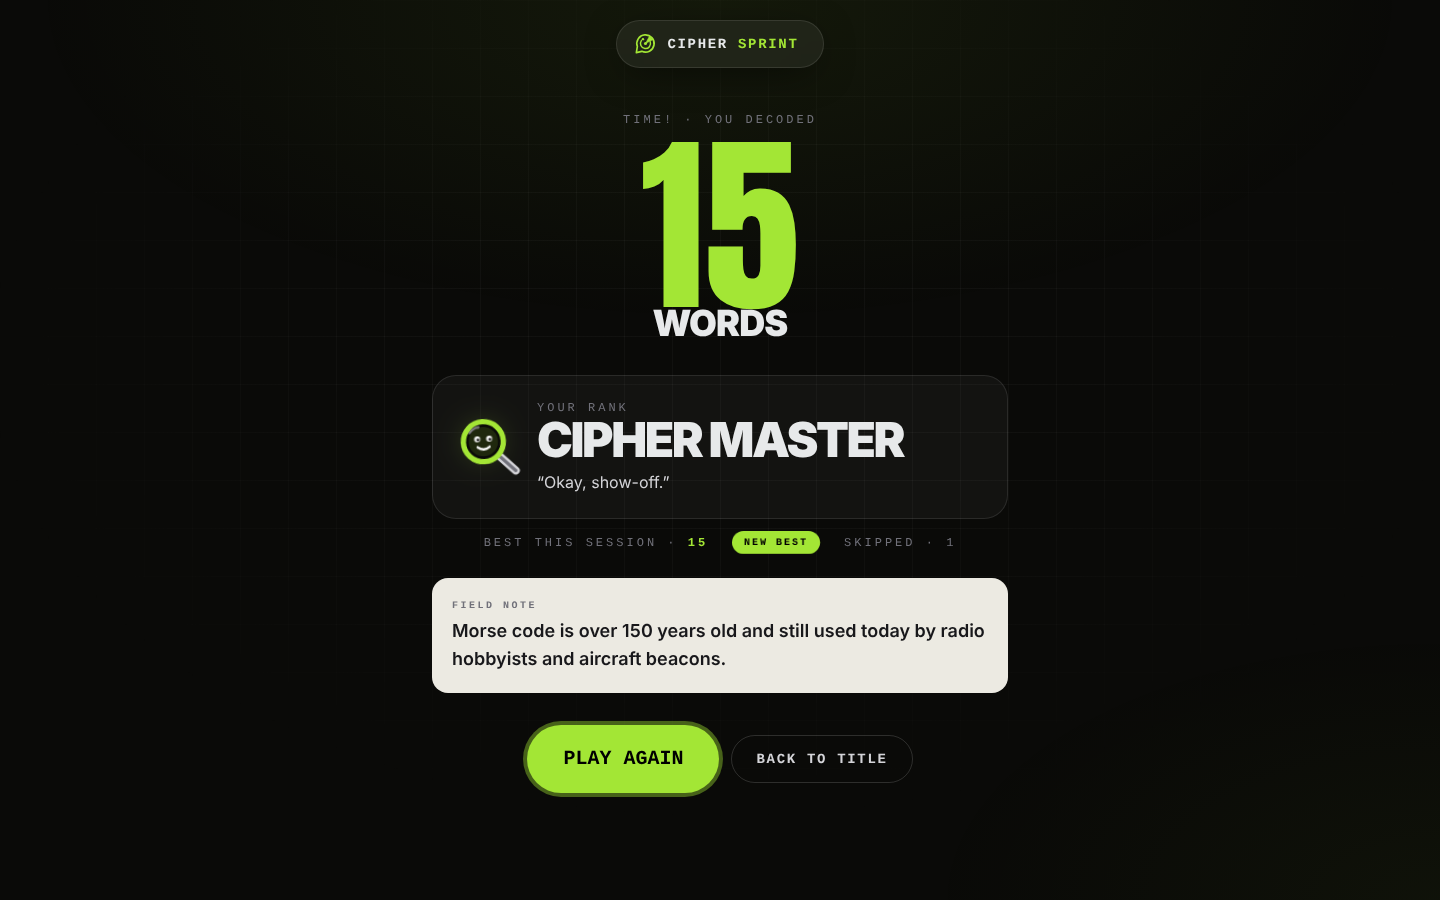
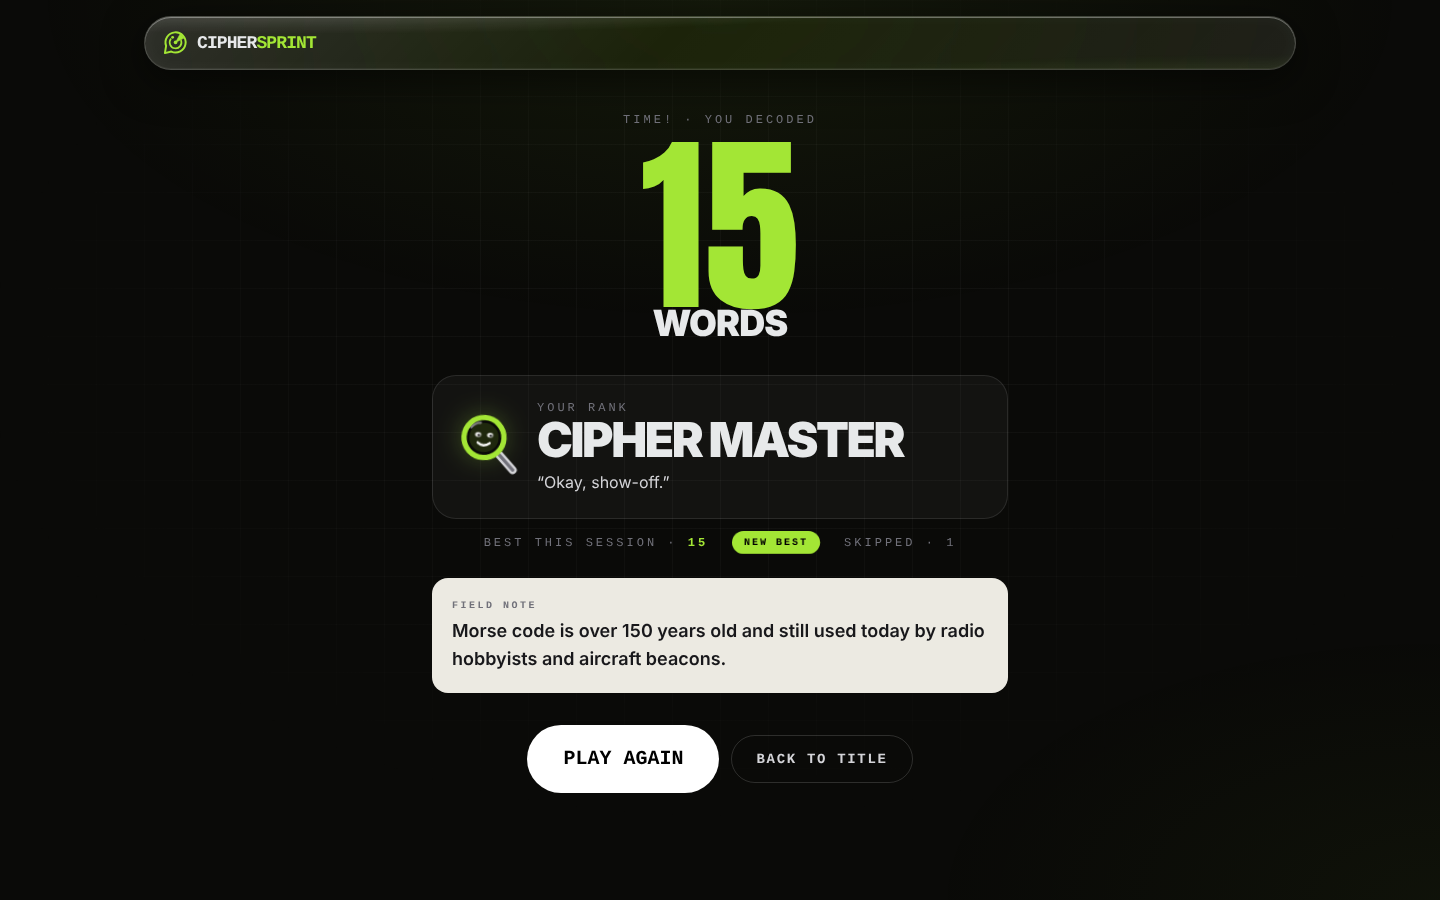
Title screen: match SOCIALTRACE (glass nav, centred cover sheet, crossing tapes, mono tagline)
Claude-Session: https://claude.ai/code/session_01DGm3B5AaMHuSEuj3PcSMVj

diff --git a/components/Game.tsx b/components/Game.tsx
@@ -16,7 +16,7 @@ import PuzzleKey from "./Keys";
 import Magnetic from "./Magnetic";
 import Marquee from "./Marquee";
 import QR from "./QR";
-import SiteNav from "./SiteNav";
+import SiteNav, { pill } from "./SiteNav";
 import { Tile, type TileState } from "./SplitFlap";
 import { TimerBar, TimerNumber } from "./Timer";
 import { Token } from "./Tokens";
@@ -39,7 +39,7 @@ declare global {
 }
 
 const btnPrimary =
-  "inline-flex min-h-[56px] items-center justify-center gap-3 rounded-full bg-lime-400 px-9 py-5 font-mono text-lg font-bold uppercase text-black transition-colors duration-200 hover:bg-white focus-visible:outline-none focus-visible:ring-4 focus-visible:ring-lime-400/40";
+  "group inline-flex min-h-[56px] items-center justify-center gap-3 rounded-full bg-lime-400 px-9 py-5 font-mono text-lg font-bold uppercase text-black outline-none transition-colors duration-200 hover:bg-white focus-visible:bg-white";
 const btnGhost =
   "inline-flex min-h-[48px] items-center justify-center rounded-full border border-white/15 px-6 py-3 font-mono text-sm font-bold uppercase tracking-[0.12em] text-zinc-300 transition-colors hover:border-white hover:text-white focus-visible:outline-none focus-visible:ring-2 focus-visible:ring-lime-400";
 const micro = "font-mono text-[10px] sm:text-xs uppercase tracking-[0.25em] text-zinc-500";
@@ -383,46 +383,48 @@ export default function Game({ initial }: { initial: "title" | "play" }) {
 // Title
 // =====================================================================
 function TitleScreen({ best, onPlay }: { best: number; onPlay: () => void }) {
+  // Same cover-sheet layout as SOCIALTRACE's hero: centred title, crop marks, file microtype, scan line.
+  const mark = "absolute h-6 w-6 border-zinc-600";
   return (
-    <main className="bg-grain relative flex min-h-[100svh] flex-col overflow-hidden">
-      <div aria-hidden className="grid-lines pointer-events-none absolute inset-0" />
-      <SiteNav />
-      <section className="relative mx-auto grid w-full max-w-[1400px] flex-1 items-center gap-8 px-4 pb-8 pt-24 sm:px-8 sm:pt-28 lg:grid-cols-[1.25fr_1fr] lg:gap-12 lg:px-12">
-        <div className="rise min-w-0">
-          <p className={micro}>Cipher club · stall game · 60 seconds</p>
-          <h1 className="mt-4 select-none font-black uppercase leading-[0.82] tracking-tighter">
-            <span className="block text-[17vw] sm:text-[13vw] lg:text-[10.5vw] 2xl:text-[150px]">Cipher</span>
-            <span className="block text-[17vw] text-lime-400 sm:text-[13vw] lg:text-[10.5vw] 2xl:text-[150px]">Sprint</span>
+    <main className="relative min-h-[100svh] overflow-hidden bg-[#0a0a08] text-white selection:bg-lime-400 selection:text-black">
+      <SiteNav right={best > 0 ? <span className={pill}>Best <b className="text-lime-400">{best}</b></span> : null} />
+      <section className="relative flex min-h-[calc(100svh-5rem)] w-full flex-col items-center justify-center px-4 pb-6 pt-28 sm:min-h-[calc(100svh-7rem)] sm:pt-32">
+        <div aria-hidden className="absolute inset-0 bg-[linear-gradient(to_right,#ffffff0d_1px,transparent_1px),linear-gradient(to_bottom,#ffffff0d_1px,transparent_1px)] bg-[size:48px_48px] [mask-image:radial-gradient(ellipse_at_center,black_30%,transparent_75%)]" />
+        <div aria-hidden className="scan pointer-events-none absolute inset-x-0 top-0 h-px bg-lime-400/70 shadow-[0_0_24px_4px_rgba(163,230,53,.35)]" />
+        <span aria-hidden className={`${mark} left-4 top-20 border-l border-t sm:left-8 sm:top-24`} />
+        <span aria-hidden className={`${mark} right-4 top-20 border-r border-t sm:right-8 sm:top-24`} />
+        <span aria-hidden className={`${mark} bottom-2 left-4 border-b border-l sm:left-8`} />
+        <span aria-hidden className={`${mark} bottom-2 right-4 border-b border-r sm:right-8`} />
+        <p className="absolute left-6 top-[6.5rem] font-mono text-[10px] uppercase tracking-[0.25em] text-zinc-500 sm:left-12 sm:top-[7.5rem] sm:text-xs">Cipher club · stall game</p>
+        <p className="absolute right-6 top-[6.5rem] flex items-center gap-2 font-mono text-[10px] uppercase tracking-[0.25em] text-zinc-500 sm:right-12 sm:top-[7.5rem] sm:text-xs">
+          <span className="h-1.5 w-1.5 animate-pulse rounded-full bg-lime-400" />60 sec</p>
+
+        <div className="rise relative z-10 text-center">
+          <h1 className="select-none text-[17vw] font-black uppercase leading-[0.82] tracking-tighter sm:text-[13vw] lg:text-[10vw] 2xl:text-[150px]">
+            Cipher<br /><span className="bg-gradient-to-b from-white to-zinc-600 bg-clip-text text-transparent">Sprint</span>
           </h1>
-          <p className="mt-6 max-w-md text-lg leading-snug text-zinc-300 sm:text-xl">
-            Decode as many secret words as you can in <span className="font-bold text-white">60 seconds</span>.
-            Every puzzle comes with its key.
+          <p className="mx-auto mt-7 max-w-2xl font-mono text-sm uppercase tracking-widest text-zinc-400 sm:text-base">
+            Read the code. Use the key.{" "}
+            <span className="relative inline-block"><span className="text-white">Crack</span>
+              <span aria-hidden className="draw-line absolute inset-x-0 -bottom-1 h-[3px] bg-lime-400" /></span> the word.
           </p>
-          <div className="mt-8 flex flex-wrap items-center gap-x-6 gap-y-4">
+          <div className="mt-10 flex flex-col items-center gap-4">
             <Magnetic>
-              <button type="button" onClick={onPlay} className={btnPrimary} data-testid="play" autoFocus>
+              <button type="button" onClick={onPlay} className={btnPrimary} data-testid="play">
                 Play
-                <svg width="18" height="18" viewBox="0 0 24 24" aria-hidden><path d="M7 4l13 8-13 8z" fill="currentColor" /></svg>
+                <svg width="22" height="22" viewBox="0 0 24 24" fill="none" stroke="currentColor" strokeWidth="2" strokeLinecap="round" strokeLinejoin="round" aria-hidden className="transition-transform group-hover:translate-x-1"><path d="M5 12h14M12 5l7 7-7 7" /></svg>
               </button>
             </Magnetic>
-            <span className={`${micro} hidden sm:inline`}>or press <kbd className="rounded border border-white/15 px-1.5 py-0.5 text-zinc-300">Enter</kbd></span>
-            {best > 0 && <span className={micro}>Best this session · <b className="text-lime-400">{best}</b></span>}
+            <span className="font-mono text-xs uppercase tracking-widest text-zinc-500">
+              <span className="hidden sm:inline">[ or press enter ]</span><span className="sm:hidden">[ 60 seconds · no sign-up ]</span>
+            </span>
           </div>
         </div>
-        <div className="rise flex min-w-0 flex-col gap-5 [animation-delay:120ms]">
-          <AttractDemo />
-          <ul className="grid grid-cols-3 gap-2 font-mono text-[10px] uppercase tracking-[0.18em] text-zinc-500 sm:text-xs">
-            {["Read the code", "Use the key", "Type the word"].map((s, i) => (
-              <li key={s} className="rounded-2xl border border-white/10 px-3 py-3">
-                <span className="block font-anton text-2xl text-lime-400">{i + 1}</span>{s}
-              </li>
-            ))}
-          </ul>
-        </div>
+
+        <div className="rise relative z-10 mt-10 w-full max-w-md sm:max-w-xl [animation-delay:150ms]"><AttractDemo /></div>
+
+        <div className="absolute bottom-6 right-8 z-10 hidden xl:block"><QR size={112} /></div>
       </section>
-      <div className="pointer-events-none relative z-10 hidden justify-end px-12 pb-5 md:flex">
-        <div className="pointer-events-auto"><QR size={132} /></div>
-      </div>
       <Marquee />
     </main>
   );

diff --git a/components/SiteNav.tsx b/components/SiteNav.tsx
@@ -1,20 +1,21 @@
 import Logo from "./Logo";
 
+// Floating "liquid glass" top bar, same as SOCIALTRACE's SiteNav (see .glass in globals.css).
 export default function SiteNav({ onHome, right }: { onHome?: () => void; right?: React.ReactNode }) {
   return (
-    <nav className="pointer-events-none fixed inset-x-0 top-3 z-40 flex justify-center px-4 sm:top-5">
-      <div className="pointer-events-auto flex h-12 items-center gap-3 rounded-full border border-white/10 bg-white/[0.06] pl-2 pr-5 shadow-[0_8px_40px_-12px_rgba(0,0,0,.8)] backdrop-blur-xl">
-        <button
-          type="button"
-          onClick={onHome}
-          className="flex h-9 items-center gap-2.5 rounded-full pl-2 pr-1 font-mono text-sm font-bold uppercase tracking-[0.12em] outline-none focus-visible:ring-2 focus-visible:ring-lime-400"
-          aria-label="Cipher Sprint, back to title"
-        >
-          <Logo size={24} />
-          <span>Cipher <span className="text-lime-400">Sprint</span></span>
-        </button>
-        {right}
-      </div>
+    <nav className="glass fixed inset-x-3 top-3 z-40 mx-auto flex max-w-6xl items-center justify-between gap-3 rounded-full py-2 pl-3 pr-2 sm:inset-x-6 sm:top-4 sm:pl-4">
+      <button
+        type="button"
+        onClick={onHome}
+        className="relative flex items-center gap-2 font-mono text-base font-bold uppercase tracking-tighter outline-none focus-visible:ring-2 focus-visible:ring-lime-400 sm:text-lg"
+        aria-label="Cipher Sprint, back to title"
+      >
+        <Logo size={28} />
+        <span>CIPHER<span className="text-lime-400">SPRINT</span></span>
+      </button>
+      <div className="relative flex min-h-[36px] items-center gap-2">{right}</div>
     </nav>
   );
 }
+
+export const pill = "glass-pill flex items-center gap-2 rounded-full px-3 py-2 font-mono text-xs font-bold uppercase tracking-wider sm:px-4 sm:text-sm";

diff --git a/components/Marquee.tsx b/components/Marquee.tsx
@@ -1,20 +1,18 @@
-const ITEMS = ["Caesar", "Morse", "Binary", "Numbers"];
-
+// Two crossing "case tapes", same as SOCIALTRACE's landing.
 export default function Marquee() {
-  const run = Array.from({ length: 4 }, () => ITEMS).flat();
+  const a = Array(10).fill("Caesar ● Morse ● Binary ● Numbers ●");
+  const b = Array(10).fill("Every puzzle comes with its key ▲ 60 seconds on the clock ▲");
   return (
-    <div className="relative overflow-hidden border-y border-black bg-lime-400 py-3 text-black" aria-hidden>
-      <div className="marquee-track flex w-max">
-        {[0, 1].map((half) => (
-          <div key={half} className="flex shrink-0">
-            {run.map((t, i) => (
-              <span key={i} className="flex items-center font-black uppercase tracking-tight">
-                <span className="px-5 text-2xl sm:text-3xl">{t}</span>
-                <span className="text-lg">●</span>
-              </span>
-            ))}
-          </div>
-        ))}
+    <div aria-hidden className="pointer-events-none relative z-10 h-32 overflow-hidden sm:h-40">
+      <div className="absolute inset-x-[-10%] top-1/2 -translate-y-1/2 -rotate-[6deg] bg-lime-400 py-3 shadow-[0_8px_30px_rgba(0,0,0,.6)] sm:-rotate-[3deg]">
+        <div className="marquee-track flex w-max gap-10 whitespace-nowrap font-mono text-2xl font-black uppercase tracking-tight text-black sm:text-4xl">
+          {a.map((t, i) => <span key={i}>{t}</span>)}
+        </div>
+      </div>
+      <div className="absolute inset-x-[-10%] top-1/2 -translate-y-1/2 rotate-[4deg] bg-[#ECEAE2] py-2 sm:rotate-[2deg]">
+        <div className="marquee-rev flex w-max gap-10 whitespace-nowrap font-mono text-sm font-bold uppercase tracking-[0.2em] text-zinc-900 sm:text-base">
+          {b.map((t, i) => <span key={i}>{t}</span>)}
+        </div>
       </div>
     </div>
   );

diff --git a/app/globals.css b/app/globals.css
@@ -108,3 +108,18 @@ body {
 
 .no-scrollbar { scrollbar-width: none; }
 .no-scrollbar::-webkit-scrollbar { display: none; }
+
+/* ---- copied from SOCIALTRACE: liquid glass nav, scan line, underline reveal ---- */
+.glass{background:linear-gradient(135deg,rgba(255,255,255,.14),rgba(255,255,255,.04) 45%,rgba(255,255,255,.08));
+  -webkit-backdrop-filter:blur(22px) saturate(180%) brightness(1.1);backdrop-filter:blur(22px) saturate(180%) brightness(1.1);
+  border:1px solid rgba(255,255,255,.16);
+  box-shadow:inset 0 1px 0 rgba(255,255,255,.35),inset 0 -1px 0 rgba(255,255,255,.06),inset 0 0 18px rgba(255,255,255,.04),0 10px 40px rgba(0,0,0,.55)}
+.glass::before{content:"";position:absolute;inset:0;border-radius:inherit;pointer-events:none;
+  background:radial-gradient(120% 140% at 15% -30%,rgba(255,255,255,.22),transparent 45%),radial-gradient(90% 120% at 100% 130%,rgba(163,230,53,.10),transparent 50%)}
+.glass-pill{background:rgba(255,255,255,.08);border:1px solid rgba(255,255,255,.14);box-shadow:inset 0 1px 0 rgba(255,255,255,.22)}
+@keyframes scan{0%{transform:translateY(0);opacity:0}8%{opacity:1}92%{opacity:1}100%{transform:translateY(100svh);opacity:0}}
+.scan{animation:scan 6s cubic-bezier(.6,0,.4,1) infinite}
+.marquee-rev{animation:marquee 26s linear infinite reverse}
+@keyframes drawline{from{transform:scaleX(0)}to{transform:scaleX(1)}}
+.draw-line{transform-origin:left;animation:drawline .7s cubic-bezier(.2,.8,.2,1) 1.1s both}
+@media (prefers-reduced-motion:reduce){.scan,.marquee-rev,.draw-line{animation:none}}

diff --git a/tailwind.config.ts b/tailwind.config.ts
@@ -1,6 +1,7 @@
 import type { Config } from "tailwindcss";
 
 const config: Config = {
+  future: { hoverOnlyWhenSupported: true },
   content: ["./app/**/*.{ts,tsx}", "./components/**/*.{ts,tsx}"],
   theme: {
     extend: {
